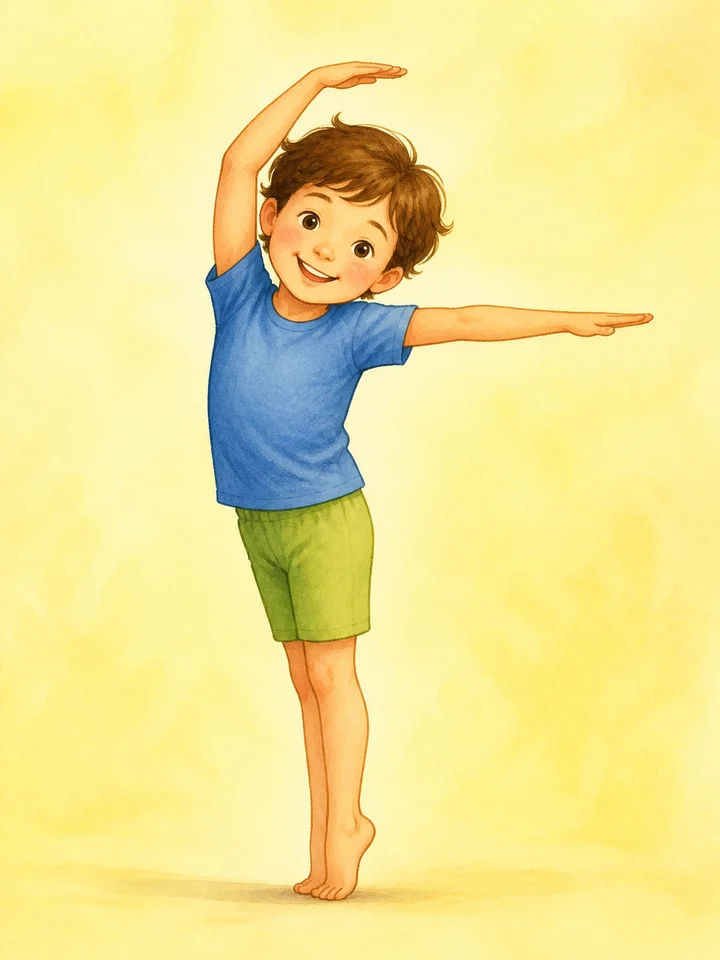
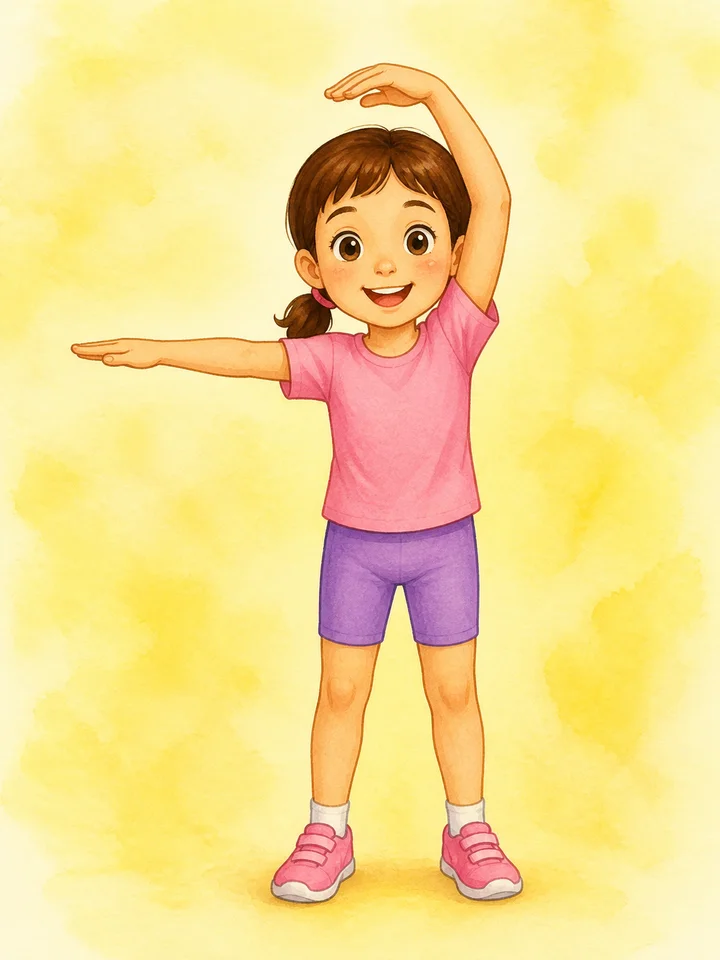
字母操 7 张重出:侧身姿势全改正面站姿,断肢/糊肢/拧脖子清零
C/M/P 三张被家长点名「看着恐怖」。逐张看完 25 张后发现不是随机翻车:
按姿势分两堆,界线干干净净——侧身/扭腰/趴地的 6 张全坏,正面站直只用
胳膊摆字形的一张没坏。

坏法:
- C 身子朝左弯、头拧成正脸,脖子像断的;下面那条胳膊从胸口长出来
- M 两条胳膊糊成一坨却伸出两只手;侧身趴着、头转成正脸
- P 少一条胳膊,剩下那条手接在自己的胳膊肘上
- G 第二条胳膊是没有手的断肢
- E 下面那条胳膊从腰上长出来
- J 空着的小臂悬在半空,和身体不相连
另有 b/f 两条腿糊成一条、d 左胳膊几乎没画出来

原 prompt 里「两条胳膊两只手、关节自然」那串负面词早就写满了,拦不住——
是姿势本身要求把人拧过去。所以不是重跑,是改姿势:躯干直立当竖笔画,
字母只用胳膊摆,闲着那条胳膊明写「垂在身侧、从肩到手完整可见」。

本次入库 7 张(c e g j m + b f),全部正面站姿,身体零缺陷。

p 和 d 扣下不入库:
- p 画成双手举过头顶,没有 P 的圈,且和同课 k1-pose-o 撞脸
- d 举臂在画面左边,看上去是个 b;b/d 在同一课,而 b/d 分不清正是
  这年纪最典型的错,拿 b 的图教 d 比现在那张还糟

已入库的 c/f 字形左右反了(C 开口朝左成了 Ɔ),但比断脖子/一条腿强得多,
先上;镜像修正 prompt 一并写进文档的第二批。

课程 JSON 未改动(同名覆盖,image 字段指的就是这些名字)。sw v61 → v62。

diff --git a/english-daka/sw.js b/english-daka/sw.js
@@ -15,7 +15,7 @@
    改 precache 清单或缓存策略时,把 CACHE 的版本号往上加一位,
    activate 会把旧版整个删掉。
    ================================================================ */
-const CACHE = "daka-v61";   // v61:梯形画成了三角形 —— 全局 *{box-sizing:border-box} 把左右透明边框算进 width,内容宽 .62-.3-.3=.02em,上边塌成一个点;梯形那条单独写回 content-box;v60:pattern/eq 卡不再补字母块 —— 颜色课「red」那一问会画出蓝底的 RED 压在红色块下面,孩子正学红色却看到红字写在蓝底上(卡片顶上本来就有色块,这块字母纯属多余);v59:规律课 5 张 + 数学 1 张封面入库,87 课全部有封面(汉字徽章清零);v58:颜色/形状 7 课改用自己的「每问一图」当封面(图挂在 dialog[].image 上,上一轮只看 card.image 把它们判成无图,封面退回了巨型汉字徽章);词族 5 课「What's this family?」的 key 由 family 改成光韵脚(ad/an/at/id/ot —— 答 family 六课通用,这题等于白问);v57:闯关选项从单词换成整句回答(每条自带小喇叭,点喇叭只念不判分),三条只差一个词,必须听完整句才分得出;抽题加两个上限(每卡每轮最多 3 问、同一答案最多 3 次,按本课答案种数放宽)——拼读卡扩到 8 问后整卡整卡地拿,一轮只出得了 1 张卡 8 题;v56:课件词表补 32 张卡(s/t/m/a 四课);26 张「字母操」图挂到「Can you show me letter X?」(I 和 L 共用一张 —— 大写 I 和小写 l 同形,身体摆出来是同一个动作,用两个文件名会放出一道「两张一样的图选一张」的死题);回收课 5 处「扔进哪个箱」、fox on box、鼓槌各挂单图;v55:封面框改成 3:4(原来近正方,3:4 的图被 object-fit:cover 上下各裁 13%,人头全切;老 Safari 无 aspect-ratio 走 @supports 回落);封面不再用拼图卡(一张图四格,缩到 160px 又裁掉上下 27%,人头猫头全切),改挑第一张单图;封面图圆角裁剪改由 .art 自己做(.cover 是 static、图是 absolute,Safari/iPad 的合成层忽略这种祖先圆角裁剪,图片在卡片圆角外露直角);v54:补齐 K2 独有 6 组的组图标(词族/拼读/常见词/主题/数学/科学);v53:198 张新图入库(26 字母卡改挂图/5 场所卡/153 张一问一图);每课封面改用本课第一张卡片图(纯 CSS 渲染的 13 课保留字形徽章);货架标题加每组一张的圆形组图标;v52:音标闭池按内容实际用到的音重算(25 个);sheep 首音那题撤掉改问首字母(/sh/ 不是 K2 教过的音);v50:课程页内容列 520 对齐到目录页的 720(两页宽度不一像两个应用);v49:.page 自带 12px 上内边距(说明行摘掉后第一张卡顶死吸顶栏;让号);v48:入口胶囊 52 收到 44px/15px(统一后整块头重);v47:四个入口胶囊统一 52px 高/16px 字/同内边距,主次只靠颜色分;v46:入口按钮改两列对称网格(自然折行宽窄参差不协调),窄屏一行一个;v45:入口按钮 flex-basis 0 改 auto(basis 0 永不触发折行,长文案从胶囊里溢出);v44:收起卡的旗子一律隐藏(插旗态也不再残留);v43:音频预取改 fetch(媒体元素 preload 会触碰音频栈,蓝牙上每批一声"嗯嗒");v42:日历规则文案改精确(点开 3 张不同的卡即点亮/重复不计/不足 3 张不折算);v41:去掉手势换课的「已切到·撤销」提示条(顶栏课名+滑动方向已足够,黑条多余;main 侧 v40 已被占用,让号);v40:日历色阶四档扩六档(数组驱动分档);v39:课程页 html 封 overflow-x(换课/换题的平移过渡不再闪横向滚动条;main 侧 v38 已被日历整月窗口占用,让号);v38:日历默认窗口按整月起画(固定 12 周会把第一个月拦腰截断,标签间距忽宽忽窄);v37:日历行标补日;月份标签钉在含 1 号的列(不漂移,月初当天即标出新月);v36:打卡日历去掉今天的蓝圈(读作被选中)+四档绿明度差拉开;networkFirst 强制 no-cache 再验证(裸 fetch 会吃浏览器启发式缓存,网络优先拿回旧文件);v35:结果 emoji 行高写死 50px(min-height 44 挡不住真实行高,答对页面长 6px);v34:闯关答对后 hint 行改隐形占位,页面不再突然变短上跳;v33:货架连续拖动防打架(按下瞬时 scrollTo 掐掉上一次松手的 smooth 滑行,再记起点);v32:收起卡的小旗防误触(未插旗隐形占位,插旗只展示;展开后才可点);v31:窄屏打卡条独占一行铺满卡宽,七点均匀摊开+连胜收尾(折行右挂难看,实测点名);v30:打卡条改为只包住内容(悬停底色不再铺满整行空白),连胜三位数+窄屏时自动折行;v29:导出存档桌面直接下载(share 面板只留触屏;share 被系统拒绝时回退下载,不再静默吞掉);v28:目录页从课程页回来时重读存档刷新(bfcache 恢复不重跑脚本,总星星/打卡条/角标全是旧快照);v27:学一学卡片展开改 FLIP,滚动补位与展开动画同步跑(以前展完再瞬移,先张嘴又猛跳,割裂);v26:鼠标拖动改为拖动中临时关 snap(吸附会把逐帧 scrollLeft 拽回,拖着像卡住猛跳),松手自算惯性落点吸卡缘再还原;v25:货架/打卡日历横滚支持鼠标拖动(桌面滚动条藏了又没横划手势,实测完全滑不动);v24:按课堂复习(卡片盖上课日期 added,目录页选日期进当天整套;main 侧的 v23 已被存档层占用,和 v3 同款让号);v23:存档读写层抽成 shell 里的 shared.js(两页共用)+ 家长可导出/导入存档(日历弹窗底部)+ 启动申请 persist();v22:答题快照 30 分钟过期 + 亲手切页签即弃考(修陈年半轮劫持进课落地页);v21:修小旗不对齐(+选择器够不着角标,auto 边距平分空隙);v20:标错题的图标书本改小旗(插旗=标记要练);v19:学一学卡头手动进/出错题本;v18:帽子行三入口统一粉彩(继续学也改淡绿,不再实心);v17:目录页次按钮上淡彩(混合复习淡蓝/错题本淡橙);v16:考一考并入复习账本(P3);v15:错题本(账本切片专练)+ 记账一天一笔;v9:目录页标题收进帽子与打卡条同排 + 打卡日历弹窗(周记录改周一起点);v7:目录页帽子收进同列卡(v6:课程页顶栏/气泡/标签减重;v5:目录页改横滚货架;v4:UI 素材入库 + 混合复习 Leitner 版;main 侧曾占用 v3)
+const CACHE = "daka-v62";   // v62:字母操 7 张重出入库(c/e/g/j/m + b/f) —— 侧身/扭腰/趴地的姿势 AI 一画就崩(断胳膊、无手断肢、小臂悬空、脖子拧断),全改成正面站立、只用胳膊摆字形;p 和 d 扣下重出(p 画成双手举头顶,和同课的 o 撞脸;d 举臂在画面左边,看上去是个 b,而 b/d 分不清正是这年纪最典型的错);v61:梯形画成了三角形 —— 全局 *{box-sizing:border-box} 把左右透明边框算进 width,内容宽 .62-.3-.3=.02em,上边塌成一个点;梯形那条单独写回 content-box;v60:pattern/eq 卡不再补字母块 —— 颜色课「red」那一问会画出蓝底的 RED 压在红色块下面,孩子正学红色却看到红字写在蓝底上(卡片顶上本来就有色块,这块字母纯属多余);v59:规律课 5 张 + 数学 1 张封面入库,87 课全部有封面(汉字徽章清零);v58:颜色/形状 7 课改用自己的「每问一图」当封面(图挂在 dialog[].image 上,上一轮只看 card.image 把它们判成无图,封面退回了巨型汉字徽章);词族 5 课「What's this family?」的 key 由 family 改成光韵脚(ad/an/at/id/ot —— 答 family 六课通用,这题等于白问);v57:闯关选项从单词换成整句回答(每条自带小喇叭,点喇叭只念不判分),三条只差一个词,必须听完整句才分得出;抽题加两个上限(每卡每轮最多 3 问、同一答案最多 3 次,按本课答案种数放宽)——拼读卡扩到 8 问后整卡整卡地拿,一轮只出得了 1 张卡 8 题;v56:课件词表补 32 张卡(s/t/m/a 四课);26 张「字母操」图挂到「Can you show me letter X?」(I 和 L 共用一张 —— 大写 I 和小写 l 同形,身体摆出来是同一个动作,用两个文件名会放出一道「两张一样的图选一张」的死题);回收课 5 处「扔进哪个箱」、fox on box、鼓槌各挂单图;v55:封面框改成 3:4(原来近正方,3:4 的图被 object-fit:cover 上下各裁 13%,人头全切;老 Safari 无 aspect-ratio 走 @supports 回落);封面不再用拼图卡(一张图四格,缩到 160px 又裁掉上下 27%,人头猫头全切),改挑第一张单图;封面图圆角裁剪改由 .art 自己做(.cover 是 static、图是 absolute,Safari/iPad 的合成层忽略这种祖先圆角裁剪,图片在卡片圆角外露直角);v54:补齐 K2 独有 6 组的组图标(词族/拼读/常见词/主题/数学/科学);v53:198 张新图入库(26 字母卡改挂图/5 场所卡/153 张一问一图);每课封面改用本课第一张卡片图(纯 CSS 渲染的 13 课保留字形徽章);货架标题加每组一张的圆形组图标;v52:音标闭池按内容实际用到的音重算(25 个);sheep 首音那题撤掉改问首字母(/sh/ 不是 K2 教过的音);v50:课程页内容列 520 对齐到目录页的 720(两页宽度不一像两个应用);v49:.page 自带 12px 上内边距(说明行摘掉后第一张卡顶死吸顶栏;让号);v48:入口胶囊 52 收到 44px/15px(统一后整块头重);v47:四个入口胶囊统一 52px 高/16px 字/同内边距,主次只靠颜色分;v46:入口按钮改两列对称网格(自然折行宽窄参差不协调),窄屏一行一个;v45:入口按钮 flex-basis 0 改 auto(basis 0 永不触发折行,长文案从胶囊里溢出);v44:收起卡的旗子一律隐藏(插旗态也不再残留);v43:音频预取改 fetch(媒体元素 preload 会触碰音频栈,蓝牙上每批一声"嗯嗒");v42:日历规则文案改精确(点开 3 张不同的卡即点亮/重复不计/不足 3 张不折算);v41:去掉手势换课的「已切到·撤销」提示条(顶栏课名+滑动方向已足够,黑条多余;main 侧 v40 已被占用,让号);v40:日历色阶四档扩六档(数组驱动分档);v39:课程页 html 封 overflow-x(换课/换题的平移过渡不再闪横向滚动条;main 侧 v38 已被日历整月窗口占用,让号);v38:日历默认窗口按整月起画(固定 12 周会把第一个月拦腰截断,标签间距忽宽忽窄);v37:日历行标补日;月份标签钉在含 1 号的列(不漂移,月初当天即标出新月);v36:打卡日历去掉今天的蓝圈(读作被选中)+四档绿明度差拉开;networkFirst 强制 no-cache 再验证(裸 fetch 会吃浏览器启发式缓存,网络优先拿回旧文件);v35:结果 emoji 行高写死 50px(min-height 44 挡不住真实行高,答对页面长 6px);v34:闯关答对后 hint 行改隐形占位,页面不再突然变短上跳;v33:货架连续拖动防打架(按下瞬时 scrollTo 掐掉上一次松手的 smooth 滑行,再记起点);v32:收起卡的小旗防误触(未插旗隐形占位,插旗只展示;展开后才可点);v31:窄屏打卡条独占一行铺满卡宽,七点均匀摊开+连胜收尾(折行右挂难看,实测点名);v30:打卡条改为只包住内容(悬停底色不再铺满整行空白),连胜三位数+窄屏时自动折行;v29:导出存档桌面直接下载(share 面板只留触屏;share 被系统拒绝时回退下载,不再静默吞掉);v28:目录页从课程页回来时重读存档刷新(bfcache 恢复不重跑脚本,总星星/打卡条/角标全是旧快照);v27:学一学卡片展开改 FLIP,滚动补位与展开动画同步跑(以前展完再瞬移,先张嘴又猛跳,割裂);v26:鼠标拖动改为拖动中临时关 snap(吸附会把逐帧 scrollLeft 拽回,拖着像卡住猛跳),松手自算惯性落点吸卡缘再还原;v25:货架/打卡日历横滚支持鼠标拖动(桌面滚动条藏了又没横划手势,实测完全滑不动);v24:按课堂复习(卡片盖上课日期 added,目录页选日期进当天整套;main 侧的 v23 已被存档层占用,和 v3 同款让号);v23:存档读写层抽成 shell 里的 shared.js(两页共用)+ 家长可导出/导入存档(日历弹窗底部)+ 启动申请 persist();v22:答题快照 30 分钟过期 + 亲手切页签即弃考(修陈年半轮劫持进课落地页);v21:修小旗不对齐(+选择器够不着角标,auto 边距平分空隙);v20:标错题的图标书本改小旗(插旗=标记要练);v19:学一学卡头手动进/出错题本;v18:帽子行三入口统一粉彩(继续学也改淡绿,不再实心);v17:目录页次按钮上淡彩(混合复习淡蓝/错题本淡橙);v16:考一考并入复习账本(P3);v15:错题本(账本切片专练)+ 记账一天一笔;v9:目录页标题收进帽子与打卡条同排 + 打卡日历弹窗(周记录改周一起点);v7:目录页帽子收进同列卡(v6:课程页顶栏/气泡/标签减重;v5:目录页改横滚货架;v4:UI 素材入库 + 混合复习 Leitner 版;main 侧曾占用 v3)
 
 /* 壳:没有它们页面根本打不开。装 SW 的时候一次性拉齐。
    ⚠ preview-img.js 436KB 也在里面 —— 它只在直接打开 app.html(不带 ?lesson=)

diff --git a/english-daka/docs/prompts/字母操重出prompt.md b/english-daka/docs/prompts/字母操重出prompt.md
@@ -1,0 +1,192 @@
+# 配图 Prompt · 字母操重出（6 张必做 + 3 张可选）
+
+> **每条 prompt 都是完整的，复制整段直接用。**「存为」= 文件名，和现有文件同名，
+> 入库直接覆盖，课程 JSON 一个字都不用改。
+> 出图目录：`generated-images/字母操重出prompt/`
+
+## 为什么要重出
+
+上一批 26 张字母操里，**凡是「侧身 / 扭腰 / 转头」的姿势，AI 都把人画坏了**；
+凡是**正面站直、只用胳膊摆字母**的，26 张里一张没坏。这不是随机翻车，是姿势选型的问题——
+所以这次不是把同样的 prompt 再跑一遍，而是**把这 6 个字母的姿势全部改成正面站姿**。
+
+对照（现有图的实际毛病）：
+
+| 字母 | 现在坏在哪 | 原 prompt 里的姿势 |
+|---|---|---|
+| **C** | 身子朝左弯、头却拧成正脸，脖子像断的；下面那条胳膊从胸口长出来，没有肩膀 | standing sideways and curving the whole body |
+| **M** | 两条胳膊糊成一坨、末端却有两只手；侧身趴着但头转成正脸 | on all fours, seen from the side |
+| **P** | **少一条胳膊**；剩下那条绕回来，手接在自己的胳膊肘上 | one arm curved back to the hip |
+| **G** | 第二条胳膊是**没有手的断肢**，末端一团白 | squatting and curving sideways |
+| **E** | 下面那条胳膊从**腰上**长出来，没有肩膀，像第三只手 | standing sideways, both arms forward |
+| **J** | 空着的那条小臂**悬在半空**，和身体不相连 | one arm up, one leg bent |
+
+新 prompt 三处硬约束（每条里都写死了）：
+
+1. **正面站立**——`squarely facing the viewer`，脸朝前、肩膀齐、腰不拧、明令 `not a side view`
+2. **字母只用胳膊摆**，躯干保持直立当竖笔画；不弯腰、不趴地、不侧倒
+3. **闲着的那条胳膊必须交代清楚**——垂在身侧且手可见，这是 P/G/J 断肢的直接来源
+
+⚠ 摆的字形和课上一致：C/E/G/P 是**大写**，j/m 是**小写**，别弄反。
+
+---
+
+## 必做 6 张
+
+### 1. `k1-pose-c` — 大写 C
+
+**存为**：`k1-pose-c.png`　／　**这一问**：`Can you show me letter C?`
+
+```
+Children's picture book illustration, soft watercolor style with clean rounded outlines, warm bright cheerful colors, plain soft pale-yellow watercolor wash background, single clear subject centered in frame, vertical 3:4 composition, friendly and cute, suitable for a 5-year-old. Exactly one cheerful young child standing upright and squarely facing the viewer, front view only, face looking straight at the viewer, neck straight and untwisted, shoulders square to the camera, torso upright and not twisted, not bending sideways. Normal human anatomy: exactly two arms, two hands, two legs and two feet, both legs and both feet clearly visible and separated, every limb growing from the correct shoulder or hip and fully connected, clear natural elbows and knees, normal child limb proportions. The child uses only the arms to act out a letter: both arms are held out in front of the body and curved strongly toward the child's left, the upper arm arcing above the head with the hand reaching left, the lower arm arcing at waist height with the hand reaching left, the two hands clearly apart so a wide open gap is left on the right side, the two curved arms together drawing a big open capital letter C. Full body visible from head to toe, the arm shape unmistakable. Playful gymnastics pose, happy expression. NO side view, NO profile view, NO twisted neck, NO bent-over torso, NO floating or detached limbs, NO arm growing out of the chest or the waist, NO arm ending without a hand, NO missing, duplicated or merged limbs. NO speech bubbles, NO labels, NO borders, NO frames, NO written words, NO letters, NO numbers, not scary, not cluttered.
+```
+
+### 2. `k1-pose-e` — 大写 E
+
+**存为**：`k1-pose-e.png`　／　**这一问**：`Can you show me letter E?`
+
+```
+Children's picture book illustration, soft watercolor style with clean rounded outlines, warm bright cheerful colors, plain soft pale-yellow watercolor wash background, single clear subject centered in frame, vertical 3:4 composition, friendly and cute, suitable for a 5-year-old. Exactly one cheerful young child standing upright and squarely facing the viewer, front view only, face looking straight at the viewer, neck straight and untwisted, shoulders square to the camera, torso upright and not twisted, not bending sideways. Normal human anatomy: exactly two arms, two hands, two legs and two feet, both legs and both feet clearly visible and separated, every limb growing from the correct shoulder or hip and fully connected, clear natural elbows and knees, normal child limb proportions. The child uses only the arms to act out a letter: the left arm reaches straight out sideways at shoulder height with the palm flat, and the right arm is held low across the front of the tummy with the right hand also pointing out to the same side at waist height, the two arms clearly separated with a visible gap between them so they read as two stacked horizontal bars, the upright body making the tall spine of a capital letter E. Full body visible from head to toe, the arm shape unmistakable. Playful gymnastics pose, happy expression. NO side view, NO profile view, NO twisted neck, NO bent-over torso, NO floating or detached limbs, NO arm growing out of the chest or the waist, NO arm ending without a hand, NO missing, duplicated or merged limbs. NO speech bubbles, NO labels, NO borders, NO frames, NO written words, NO letters, NO numbers, not scary, not cluttered.
+```
+
+### 3. `k1-pose-g` — 大写 G
+
+**存为**：`k1-pose-g.png`　／　**这一问**：`Can you show me letter G?`
+
+```
+Children's picture book illustration, soft watercolor style with clean rounded outlines, warm bright cheerful colors, plain soft pale-yellow watercolor wash background, single clear subject centered in frame, vertical 3:4 composition, friendly and cute, suitable for a 5-year-old. Exactly one cheerful young child standing upright and squarely facing the viewer, front view only, face looking straight at the viewer, neck straight and untwisted, shoulders square to the camera, torso upright and not twisted, not bending sideways, not squatting. Normal human anatomy: exactly two arms, two hands, two legs and two feet, both legs and both feet clearly visible and separated, every limb growing from the correct shoulder or hip and fully connected, both hands fully drawn with fingers, clear natural elbows and knees, normal child limb proportions. The child uses only the arms to act out a letter: both arms are held out in front of the body and curved strongly toward the child's left like a big open C, the upper arm arcing above the head and the lower arm arcing at waist height, and the lower hand is turned inward so the fingers point back toward the middle of the chest, adding the small inward bar of a capital letter G. Full body visible from head to toe, the arm shape unmistakable. Playful gymnastics pose, happy expression. NO side view, NO profile view, NO twisted neck, NO bent-over torso, NO floating or detached limbs, NO arm growing out of the chest or the waist, NO arm ending without a hand, NO stump, NO missing, duplicated or merged limbs. NO speech bubbles, NO labels, NO borders, NO frames, NO written words, NO letters, NO numbers, not scary, not cluttered.
+```
+
+### 4. `k1-pose-j` — 小写 j
+
+**存为**：`k1-pose-j.png`　／　**这一问**：`Can you show me letter J?`
+
+```
+Children's picture book illustration, soft watercolor style with clean rounded outlines, warm bright cheerful colors, plain soft pale-yellow watercolor wash background, single clear subject centered in frame, vertical 3:4 composition, friendly and cute, suitable for a 5-year-old. Exactly one cheerful young child standing upright and squarely facing the viewer, front view only, face looking straight at the viewer, neck straight and untwisted, shoulders square to the camera, torso upright and not twisted. Normal human anatomy: exactly two arms, two hands, two legs and two feet, every limb growing from the correct shoulder or hip and fully connected all the way from shoulder to fingertips, clear natural elbows and knees, normal child limb proportions. The child acts out a letter: the right arm is raised straight up above the head with the index finger pointing at the sky, the left arm hangs straight down close to the body with the whole arm from shoulder to hand clearly visible beside the hip, and the left foot is swung out sideways at the bottom so it hooks outward, the raised fingertip reading as the dot and the upright body with the hooked foot reading as the tail of a lowercase letter j. Full body visible from head to toe, the shape unmistakable. Playful gymnastics pose, happy expression. NO side view, NO profile view, NO twisted neck, NO floating or detached limbs, NO forearm separated from the shoulder, NO arm growing out of the chest or the waist, NO arm ending without a hand, NO missing, duplicated or merged limbs. NO speech bubbles, NO labels, NO borders, NO frames, NO written words, NO letters, NO numbers, not scary, not cluttered.
+```
+
+### 5. `k1-pose-m` — 小写 m
+
+**存为**：`k1-pose-m.png`　／　**这一问**：`Can you show me letter M?`
+
+```
+Children's picture book illustration, soft watercolor style with clean rounded outlines, warm bright cheerful colors, plain soft pale-yellow watercolor wash background, single clear subject centered in frame, vertical 3:4 composition, friendly and cute, suitable for a 5-year-old. Exactly one cheerful young child standing upright on both feet and squarely facing the viewer, front view only, face looking straight at the viewer, neck straight and untwisted, shoulders square to the camera, torso upright, standing on two feet and definitely not on all fours, not crawling, not bending over. Normal human anatomy: exactly two arms, two hands, two legs and two feet, both legs and both feet clearly visible and separated, every limb growing from the correct shoulder or hip and fully connected, clear natural elbows and knees, normal child limb proportions. The child uses only the arms to act out a letter: both arms are raised out to the sides at shoulder height and bent sharply straight down at the elbows so both forearms hang vertically, making two matching rounded arches, one on the left of the head and one on the right, perfectly symmetrical, together drawing the two humps of a lowercase letter m. Full body visible from head to toe, the arm shape unmistakable. Playful gymnastics pose, happy expression. NO side view, NO profile view, NO twisted neck, NO crawling pose, NO hands on the ground, NO floating or detached limbs, NO arm growing out of the chest or the waist, NO arm ending without a hand, NO missing, duplicated or merged limbs, NO two hands on one arm. NO speech bubbles, NO labels, NO borders, NO frames, NO written words, NO letters, NO numbers, not scary, not cluttered.
+```
+
+### 6. `k1-pose-p` — 大写 P
+
+**存为**：`k1-pose-p.png`　／　**这一问**：`Can you show me letter P?`
+
+```
+Children's picture book illustration, soft watercolor style with clean rounded outlines, warm bright cheerful colors, plain soft pale-yellow watercolor wash background, single clear subject centered in frame, vertical 3:4 composition, friendly and cute, suitable for a 5-year-old. Exactly one cheerful young child standing upright and squarely facing the viewer, front view only, face looking straight at the viewer, neck straight and untwisted, shoulders square to the camera, torso upright and not twisted. Normal human anatomy: exactly two arms, two hands, two legs and two feet, both arms present and both clearly visible, both legs and both feet clearly visible and separated, every limb growing from the correct shoulder or hip and fully connected, clear natural elbows and knees, normal child limb proportions. The child uses only the arms to act out a letter: the right arm is raised from the shoulder and curved forward and around so the right hand comes back and rests on the upper chest near the collarbone, closing a clear round loop beside the head and upper body, while the left arm hangs straight down close to the body with the whole arm from shoulder to hand clearly visible beside the hip, the upright body making the stem and the round loop at the top making a capital letter P. Full body visible from head to toe, the arm shape unmistakable. Playful gymnastics pose, happy expression. NO side view, NO profile view, NO twisted neck, NO missing arm, NO one-armed child, NO hand attached to an elbow, NO floating or detached limbs, NO arm growing out of the chest or the waist, NO arm ending without a hand, NO missing, duplicated or merged limbs. NO speech bubbles, NO labels, NO borders, NO frames, NO written words, NO letters, NO numbers, not scary, not cluttered.
+```
+
+---
+
+## 可选 3 张（不吓人，但也不对）
+
+这三张的毛病是**两条腿糊成一条 / 一条胳膊几乎没画出来**，小图上不容易看出来，
+你觉得无所谓就跳过；要一起重出就用下面的 prompt。
+
+### 7. `k1-pose-b` — 小写 b（现在只有一条腿一只脚）
+
+**存为**：`k1-pose-b.png`
+
+```
+Children's picture book illustration, soft watercolor style with clean rounded outlines, warm bright cheerful colors, plain soft pale-yellow watercolor wash background, single clear subject centered in frame, vertical 3:4 composition, friendly and cute, suitable for a 5-year-old. Exactly one cheerful young child standing upright and squarely facing the viewer, front view only, face looking straight at the viewer, neck straight and untwisted, shoulders square to the camera, torso upright. Normal human anatomy: exactly two arms, two hands, two legs and two feet, the two legs clearly separated with a visible gap between them and both feet flat on the ground and fully drawn, every limb growing from the correct shoulder or hip and fully connected, clear natural elbows and knees, normal child limb proportions. The child uses only the arms to act out a letter: the left arm is raised straight up above the head making a tall straight stem, and the right arm is curved forward from the shoulder down to the waist with the right hand resting on the tummy so the arm closes a round belly shape on the lower half of the body, together drawing a lowercase letter b. Full body visible from head to toe, the shape unmistakable. Playful gymnastics pose, happy expression. NO side view, NO profile view, NO twisted neck, NO single leg, NO merged legs, NO missing foot, NO floating or detached limbs, NO arm growing out of the chest or the waist, NO arm ending without a hand. NO speech bubbles, NO labels, NO borders, NO frames, NO written words, NO letters, NO numbers, not scary, not cluttered.
+```
+
+### 8. `k1-pose-d` — 小写 d（左胳膊只剩一只手贴在肚子上）
+
+**存为**：`k1-pose-d.png`
+
+```
+Children's picture book illustration, soft watercolor style with clean rounded outlines, warm bright cheerful colors, plain soft pale-yellow watercolor wash background, single clear subject centered in frame, vertical 3:4 composition, friendly and cute, suitable for a 5-year-old. Exactly one cheerful young child standing upright and squarely facing the viewer, front view only, face looking straight at the viewer, neck straight and untwisted, shoulders square to the camera, torso upright. Normal human anatomy: exactly two arms, two hands, two legs and two feet, the two legs clearly separated and both feet fully drawn, every limb growing from the correct shoulder or hip and fully connected, both arms drawn completely from shoulder to elbow to hand with nothing hidden behind the body, clear natural elbows and knees, normal child limb proportions. The child uses only the arms to act out a letter: the right arm is raised straight up above the head making a tall straight stem, and the left arm is curved forward from the shoulder down to the waist with the left hand resting on the tummy so the arm closes a round belly shape on the lower half of the body, together drawing a lowercase letter d. Full body visible from head to toe, the shape unmistakable. Playful gymnastics pose, happy expression. NO side view, NO profile view, NO twisted neck, NO merged legs, NO floating or detached limbs, NO shoulder hidden behind the torso, NO arm growing out of the chest or the waist, NO arm ending without a hand. NO speech bubbles, NO labels, NO borders, NO frames, NO written words, NO letters, NO numbers, not scary, not cluttered.
+```
+
+### 9. `k1-pose-f` — 小写 f（现在只有一条腿一只脚）
+
+**存为**：`k1-pose-f.png`
+
+```
+Children's picture book illustration, soft watercolor style with clean rounded outlines, warm bright cheerful colors, plain soft pale-yellow watercolor wash background, single clear subject centered in frame, vertical 3:4 composition, friendly and cute, suitable for a 5-year-old. Exactly one cheerful young child standing upright and squarely facing the viewer, front view only, face looking straight at the viewer, neck straight and untwisted, shoulders square to the camera, torso upright. Normal human anatomy: exactly two arms, two hands, two legs and two feet, the two legs clearly separated with a visible gap between them and both feet flat on the ground and fully drawn, every limb growing from the correct shoulder or hip and fully connected, clear natural elbows and knees, normal child limb proportions. The child uses only the arms to act out a letter: the left arm is raised high and curved gently over the top of the head with the hand hanging forward, making the hook at the top, and the right arm reaches straight out sideways at chest height with the palm flat, making the crossbar, the upright body making the stem of a lowercase letter f. Full body visible from head to toe, the shape unmistakable. Playful gymnastics pose, happy expression. NO side view, NO profile view, NO twisted neck, NO single leg, NO merged legs, NO missing foot, NO floating or detached limbs, NO arm growing out of the chest or the waist, NO arm ending without a hand. NO speech bubbles, NO labels, NO borders, NO frames, NO written words, NO letters, NO numbers, not scary, not cluttered.
+```
+
+---
+
+## 出完之后
+
+图丢进 `generated-images/字母操重出prompt/`，文件名就是上面的「存为」名，然后：
+
+```bash
+python3 ingest_images.py generated-images/字母操重出prompt
+```
+
+同名覆盖，**课程 JSON 一个字都不用改**（`image` 字段指的就是这些名字）。
+我这边再 bump 一次 `sw.js` 版本号，让装过 PWA 的平板刷掉旧图。
+
+---
+
+# 第二批 · 2 张必重出 + 2 张可选（镜像修正）
+
+**第一批结果**：9 张里 7 张过（b c e f g j m），已入库。姿势全部改成正面站姿之后，
+**断肢、糊肢、拧脖子一例都没有**——姿势选型这条路走通了。扣下 2 张，原因不是画坏了，是**画错了**。
+
+## 必重出
+
+### 10. `k1-pose-p` — 大写 P（姿势跑偏了）
+
+**存为**：`k1-pose-p.png`
+
+第一批那张**双手举过头顶**，根本没有 P 的那个圈，而且和同一课的 `k1-pose-o`（双臂头顶抱圆）
+撞脸——O 和 P 在同一节课 `k1-letter-mnop` 里，一课两张一样的图。
+
+原 prompt 说「手绕回来贴住锁骨」太抽象了，这次改成一个具体的、孩子做得出来的动作：
+**手臂侧平举再屈肘、指尖点在脖子边上**，胳膊和脑袋之间就空出一个圆洞——那就是 P 的圈。
+
+```
+Children's picture book illustration, soft watercolor style with clean rounded outlines, warm bright cheerful colors, plain soft pale-yellow watercolor wash background, single clear subject centered in frame, vertical 3:4 composition, friendly and cute, suitable for a 5-year-old. Exactly one cheerful young child standing upright and squarely facing the viewer, front view only, face looking straight at the viewer, neck straight and untwisted, shoulders square to the camera, torso upright and not twisted, standing on two feet. Normal human anatomy: exactly two arms, two hands, two legs and two feet, both arms present and both clearly visible, both legs and both feet clearly visible and separated, every limb growing from the correct shoulder or hip and fully connected, clear natural elbows and knees, normal child limb proportions. The child acts out a letter with one arm only: the right arm is lifted straight out to the side at shoulder height and then bent sharply at the elbow so the forearm comes back inward and the fingertips touch the side of the neck, so that the upper arm, the forearm and the head enclose a clear empty round hole high up beside the head, and this closed loop is the bowl at the top of a capital letter P; meanwhile the left arm hangs straight down close to the body with the whole arm from shoulder to hand clearly visible beside the hip, and the upright body is the tall stem of the P. Full body visible from head to toe, the closed round loop beside the head clearly readable. Playful gymnastics pose, happy expression. IMPORTANT: only ONE arm is lifted, the other arm hangs down at the side. NOT both arms raised, NOT both arms above the head, NO arms overhead, NO circle above the head, NO hands touching above the head. NO side view, NO profile view, NO twisted neck, NO missing arm, NO one-armed child, NO hand attached to an elbow, NO floating or detached limbs, NO arm growing out of the chest or the waist, NO arm ending without a hand. NO speech bubbles, NO labels, NO borders, NO frames, NO written words, NO letters, NO numbers, not scary, not cluttered.
+```
+
+### 11. `k1-pose-d` — 小写 d（画成了 b）
+
+**存为**：`k1-pose-d.png`
+
+第一批那张身体没毛病，但**举起的那条胳膊在画面左边**——和同一批的 `k1-pose-b` 一模一样，
+看上去是个 **b**。b 和 d 在同一节课 `k1-letter-abcd`，而 b/d 分不清正是这个年纪最典型的错，
+拿一张 b 的图去教 d，比现在那张胳膊没画全的还糟，所以没入库。
+
+**这一张唯一要盯的就是左右**：竖的那笔（举起的胳膊）必须在**画面右边**，圆肚子在**画面左边**。
+
+```
+Children's picture book illustration, soft watercolor style with clean rounded outlines, warm bright cheerful colors, plain soft pale-yellow watercolor wash background, single clear subject centered in frame, vertical 3:4 composition, friendly and cute, suitable for a 5-year-old. Exactly one cheerful young child standing upright and squarely facing the viewer, front view only, face looking straight at the viewer, neck straight and untwisted, shoulders square to the camera, torso upright, standing on two feet with the two legs clearly separated and both feet fully drawn. Normal human anatomy: exactly two arms, two hands, two legs and two feet, both arms drawn completely from shoulder to elbow to hand with nothing hidden behind the body, every limb growing from the correct shoulder or hip and fully connected, clear natural elbows and knees, normal child limb proportions. The child uses only the arms to act out a letter: the arm on the RIGHT-HAND SIDE OF THE PICTURE is raised straight up above the head, tall and vertical, making the straight stem; the arm on the LEFT-HAND SIDE OF THE PICTURE curves forward from the shoulder down to the waist with that hand resting on the tummy, closing a round belly shape on the lower LEFT of the body. LAYOUT IS CRITICAL: the tall straight raised arm must be on the RIGHT side of the image and the round belly curve must be on the LEFT side of the image, so the whole figure reads as a lowercase letter d and NOT as a lowercase letter b. Full body visible from head to toe, the shape unmistakable. Playful gymnastics pose, happy expression. NO mirrored layout, NO raised arm on the left side of the image, NO side view, NO profile view, NO twisted neck, NO merged legs, NO floating or detached limbs, NO arm growing out of the chest or the waist, NO arm ending without a hand. NO speech bubbles, NO labels, NO borders, NO frames, NO written words, NO letters, NO numbers, not scary, not cluttered.
+```
+
+## 可选 2 张（左右反了，但不难看）
+
+已入库的 c 和 f 身体都是好的，只是**字形左右反了**：C 的开口朝左（成了 `Ɔ`），f 的钩和横都朝左。
+比原来那两张（断脖子 / 一条腿）强得多，所以我先上了。你觉得反着别扭就补这两张，同名覆盖。
+
+### 12. `k1-pose-c` — 大写 C（开口要朝右）
+
+**存为**：`k1-pose-c.png`
+
+```
+Children's picture book illustration, soft watercolor style with clean rounded outlines, warm bright cheerful colors, plain soft pale-yellow watercolor wash background, single clear subject centered in frame, vertical 3:4 composition, friendly and cute, suitable for a 5-year-old. Exactly one cheerful young child standing upright and squarely facing the viewer, front view only, face looking straight at the viewer, neck straight and untwisted, shoulders square to the camera, torso upright and not twisted, standing on two feet. Normal human anatomy: exactly two arms, two hands, two legs and two feet, both legs and both feet clearly visible and separated, every limb growing from the correct shoulder or hip and fully connected, clear natural elbows and knees, normal child limb proportions. The child uses only the arms to act out a letter: both arms are held out in front of the body and curved so that BOTH HANDS REACH TOWARD THE RIGHT-HAND SIDE OF THE PICTURE, the upper arm arcing above the head with that hand ending on the right, the lower arm arcing at waist height with that hand also ending on the right, the two hands clearly apart so a wide open gap is left on the RIGHT side of the picture while the child's body closes the curve on the LEFT side, together drawing a big open capital letter C that opens to the right. LAYOUT IS CRITICAL: the opening of the C must be on the RIGHT of the image, not the left, so it does not look like a backwards C. Full body visible from head to toe, the arm shape unmistakable. Playful gymnastics pose, happy expression. NO backwards C, NO mirrored layout, NO side view, NO profile view, NO twisted neck, NO bent-over torso, NO floating or detached limbs, NO arm growing out of the chest or the waist, NO arm ending without a hand. NO speech bubbles, NO labels, NO borders, NO frames, NO written words, NO letters, NO numbers, not scary, not cluttered.
+```
+
+### 13. `k1-pose-f` — 小写 f（钩和横都要朝右）
+
+**存为**：`k1-pose-f.png`
+
+```
+Children's picture book illustration, soft watercolor style with clean rounded outlines, warm bright cheerful colors, plain soft pale-yellow watercolor wash background, single clear subject centered in frame, vertical 3:4 composition, friendly and cute, suitable for a 5-year-old. Exactly one cheerful young child standing upright and squarely facing the viewer, front view only, face looking straight at the viewer, neck straight and untwisted, shoulders square to the camera, torso upright, standing on two feet with the two legs clearly separated and both feet fully drawn. Normal human anatomy: exactly two arms, two hands, two legs and two feet, every limb growing from the correct shoulder or hip and fully connected, clear natural elbows and knees, normal child limb proportions. The child uses only the arms to act out a letter: the arm on the LEFT-HAND SIDE OF THE PICTURE is raised high and curved gently over the top of the head so that its hand ends on the RIGHT-HAND SIDE of the head, making a hook that curls to the right; the arm on the RIGHT-HAND SIDE OF THE PICTURE reaches straight out sideways to the right at chest height with the palm flat, making the crossbar pointing right; the upright body is the stem of a lowercase letter f. LAYOUT IS CRITICAL: both the top hook and the crossbar must point toward the RIGHT of the image, not the left, so it does not look like a backwards f. Full body visible from head to toe, the shape unmistakable. Playful gymnastics pose, happy expression. NO backwards f, NO mirrored layout, NO side view, NO profile view, NO twisted neck, NO single leg, NO merged legs, NO floating or detached limbs, NO arm growing out of the chest or the waist, NO arm ending without a hand. NO speech bubbles, NO labels, NO borders, NO frames, NO written words, NO letters, NO numbers, not scary, not cluttered.
+```
+
+---
+
+**第二批出完照旧**：丢进 `generated-images/字母操重出prompt/`，然后
+
+```bash
+python3 ingest_images.py generated-images/字母操重出prompt
+```
